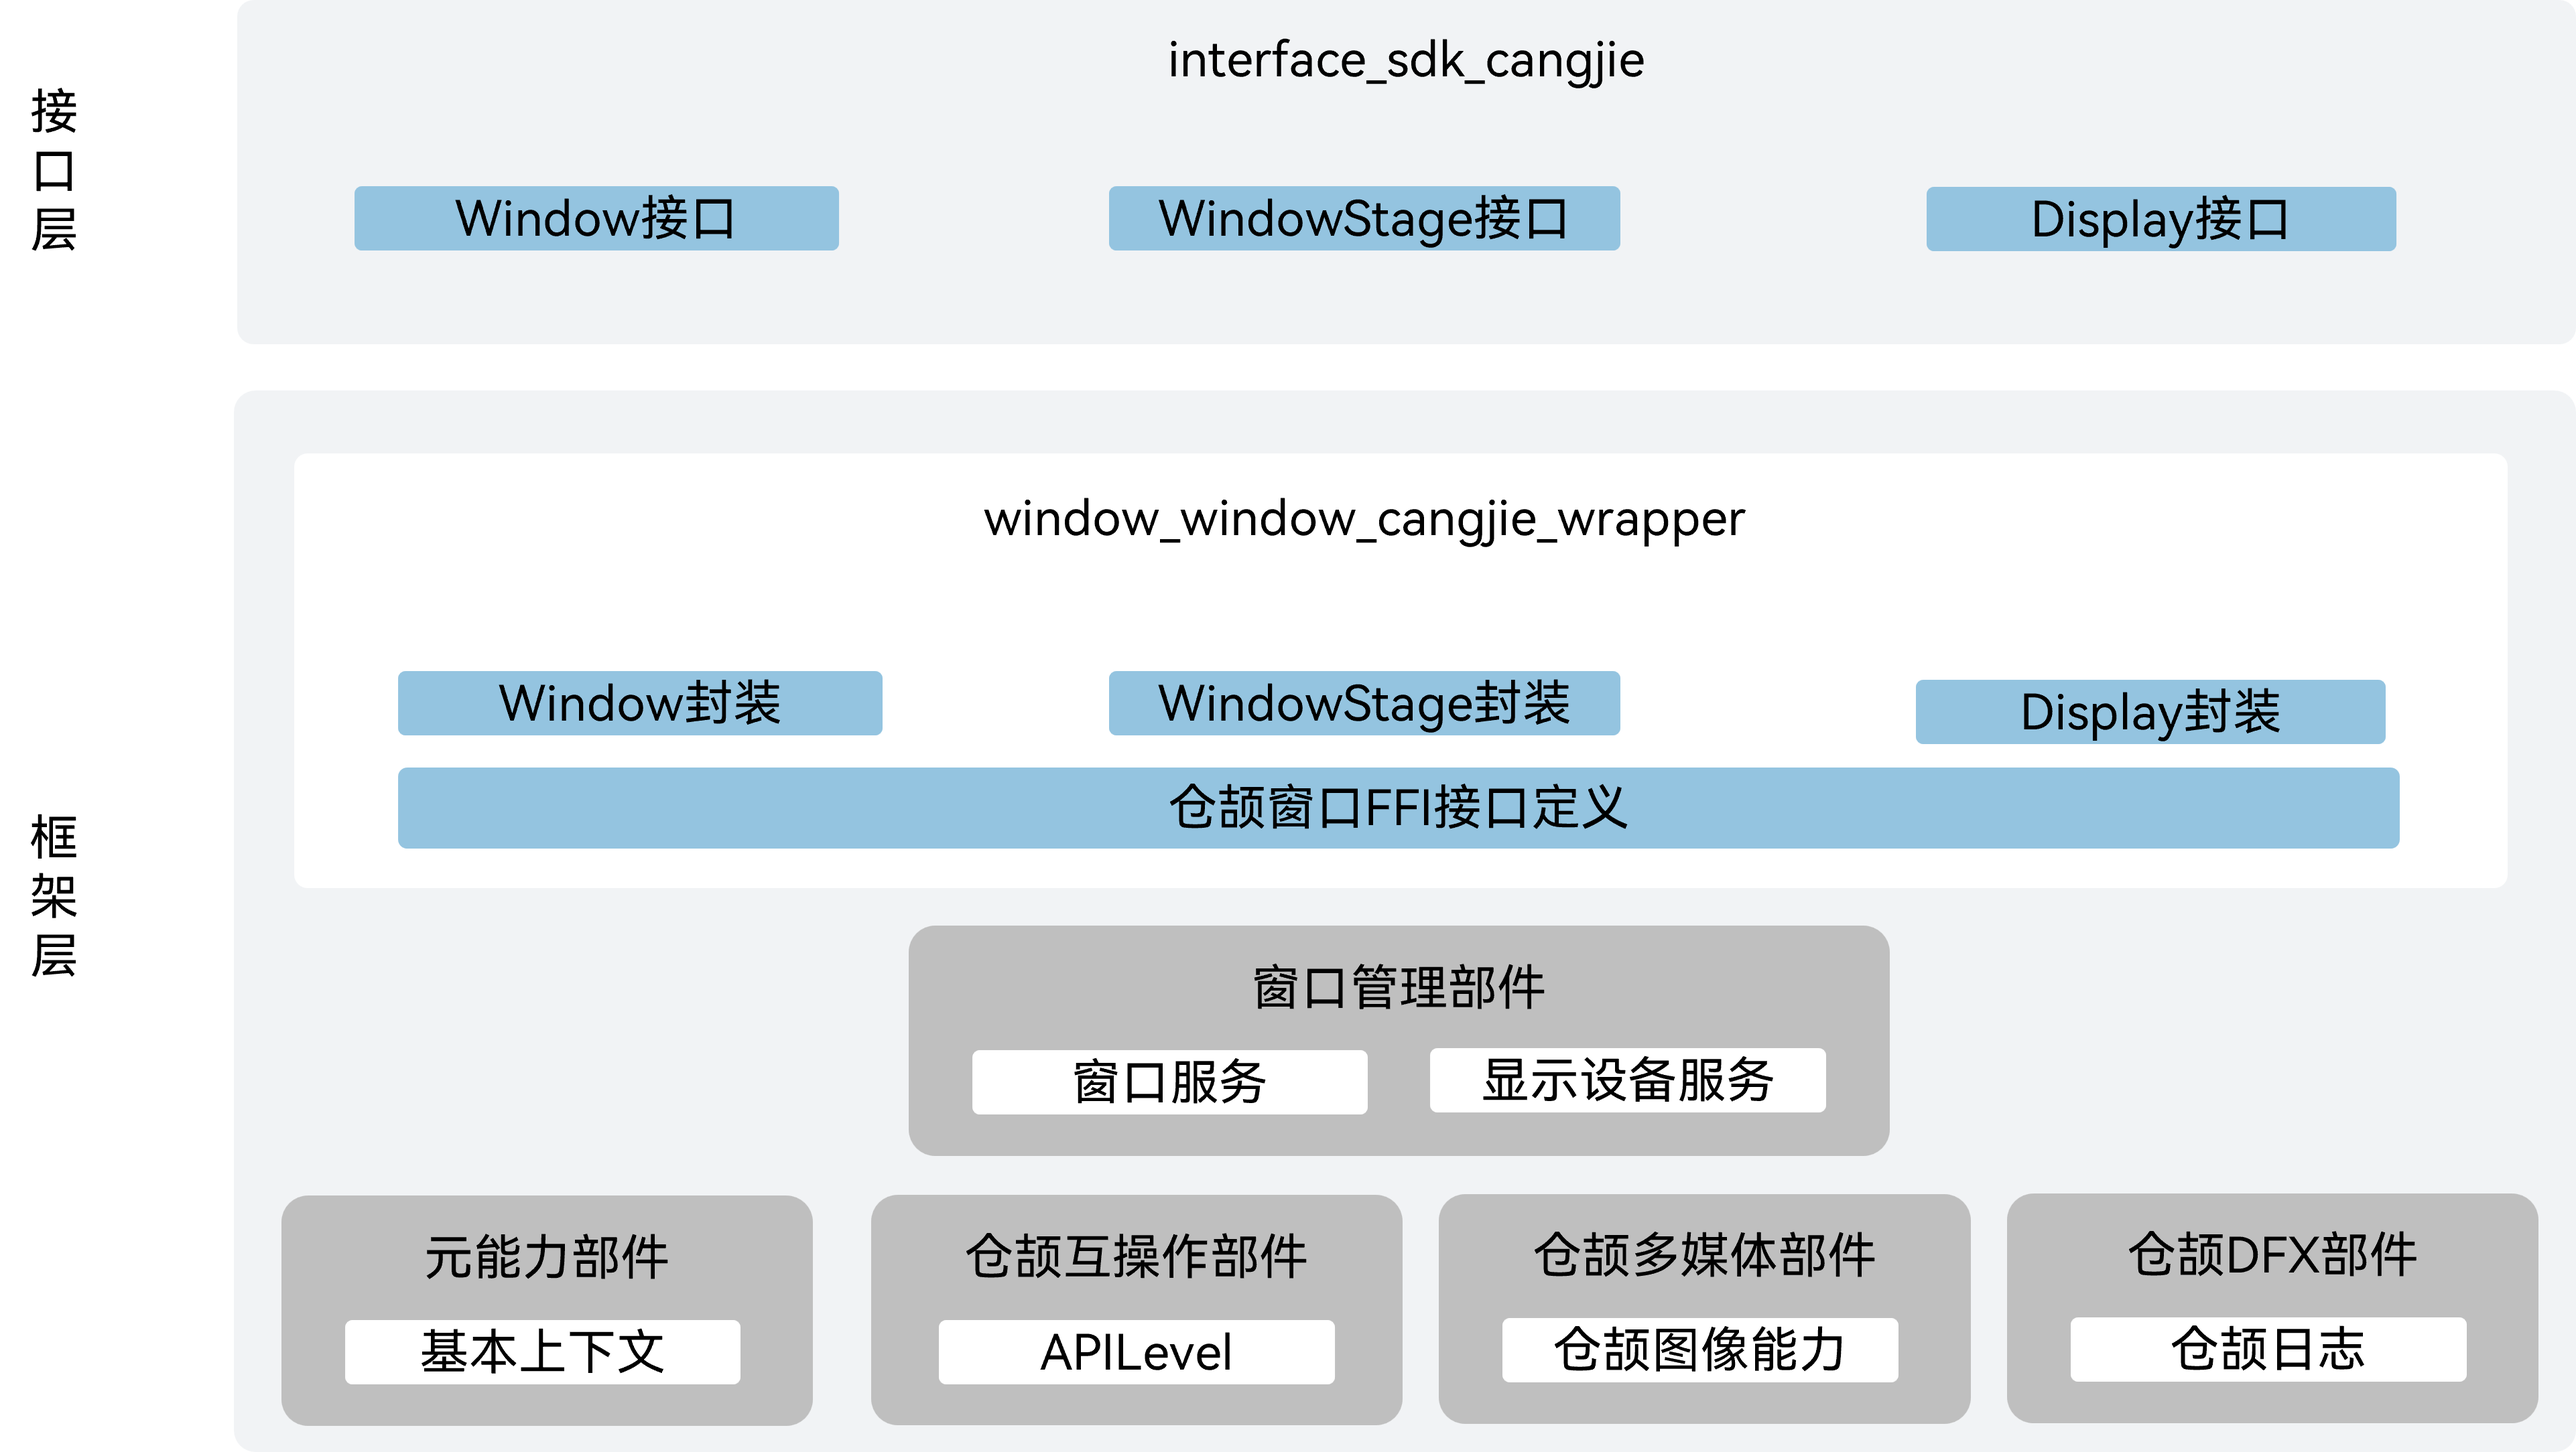
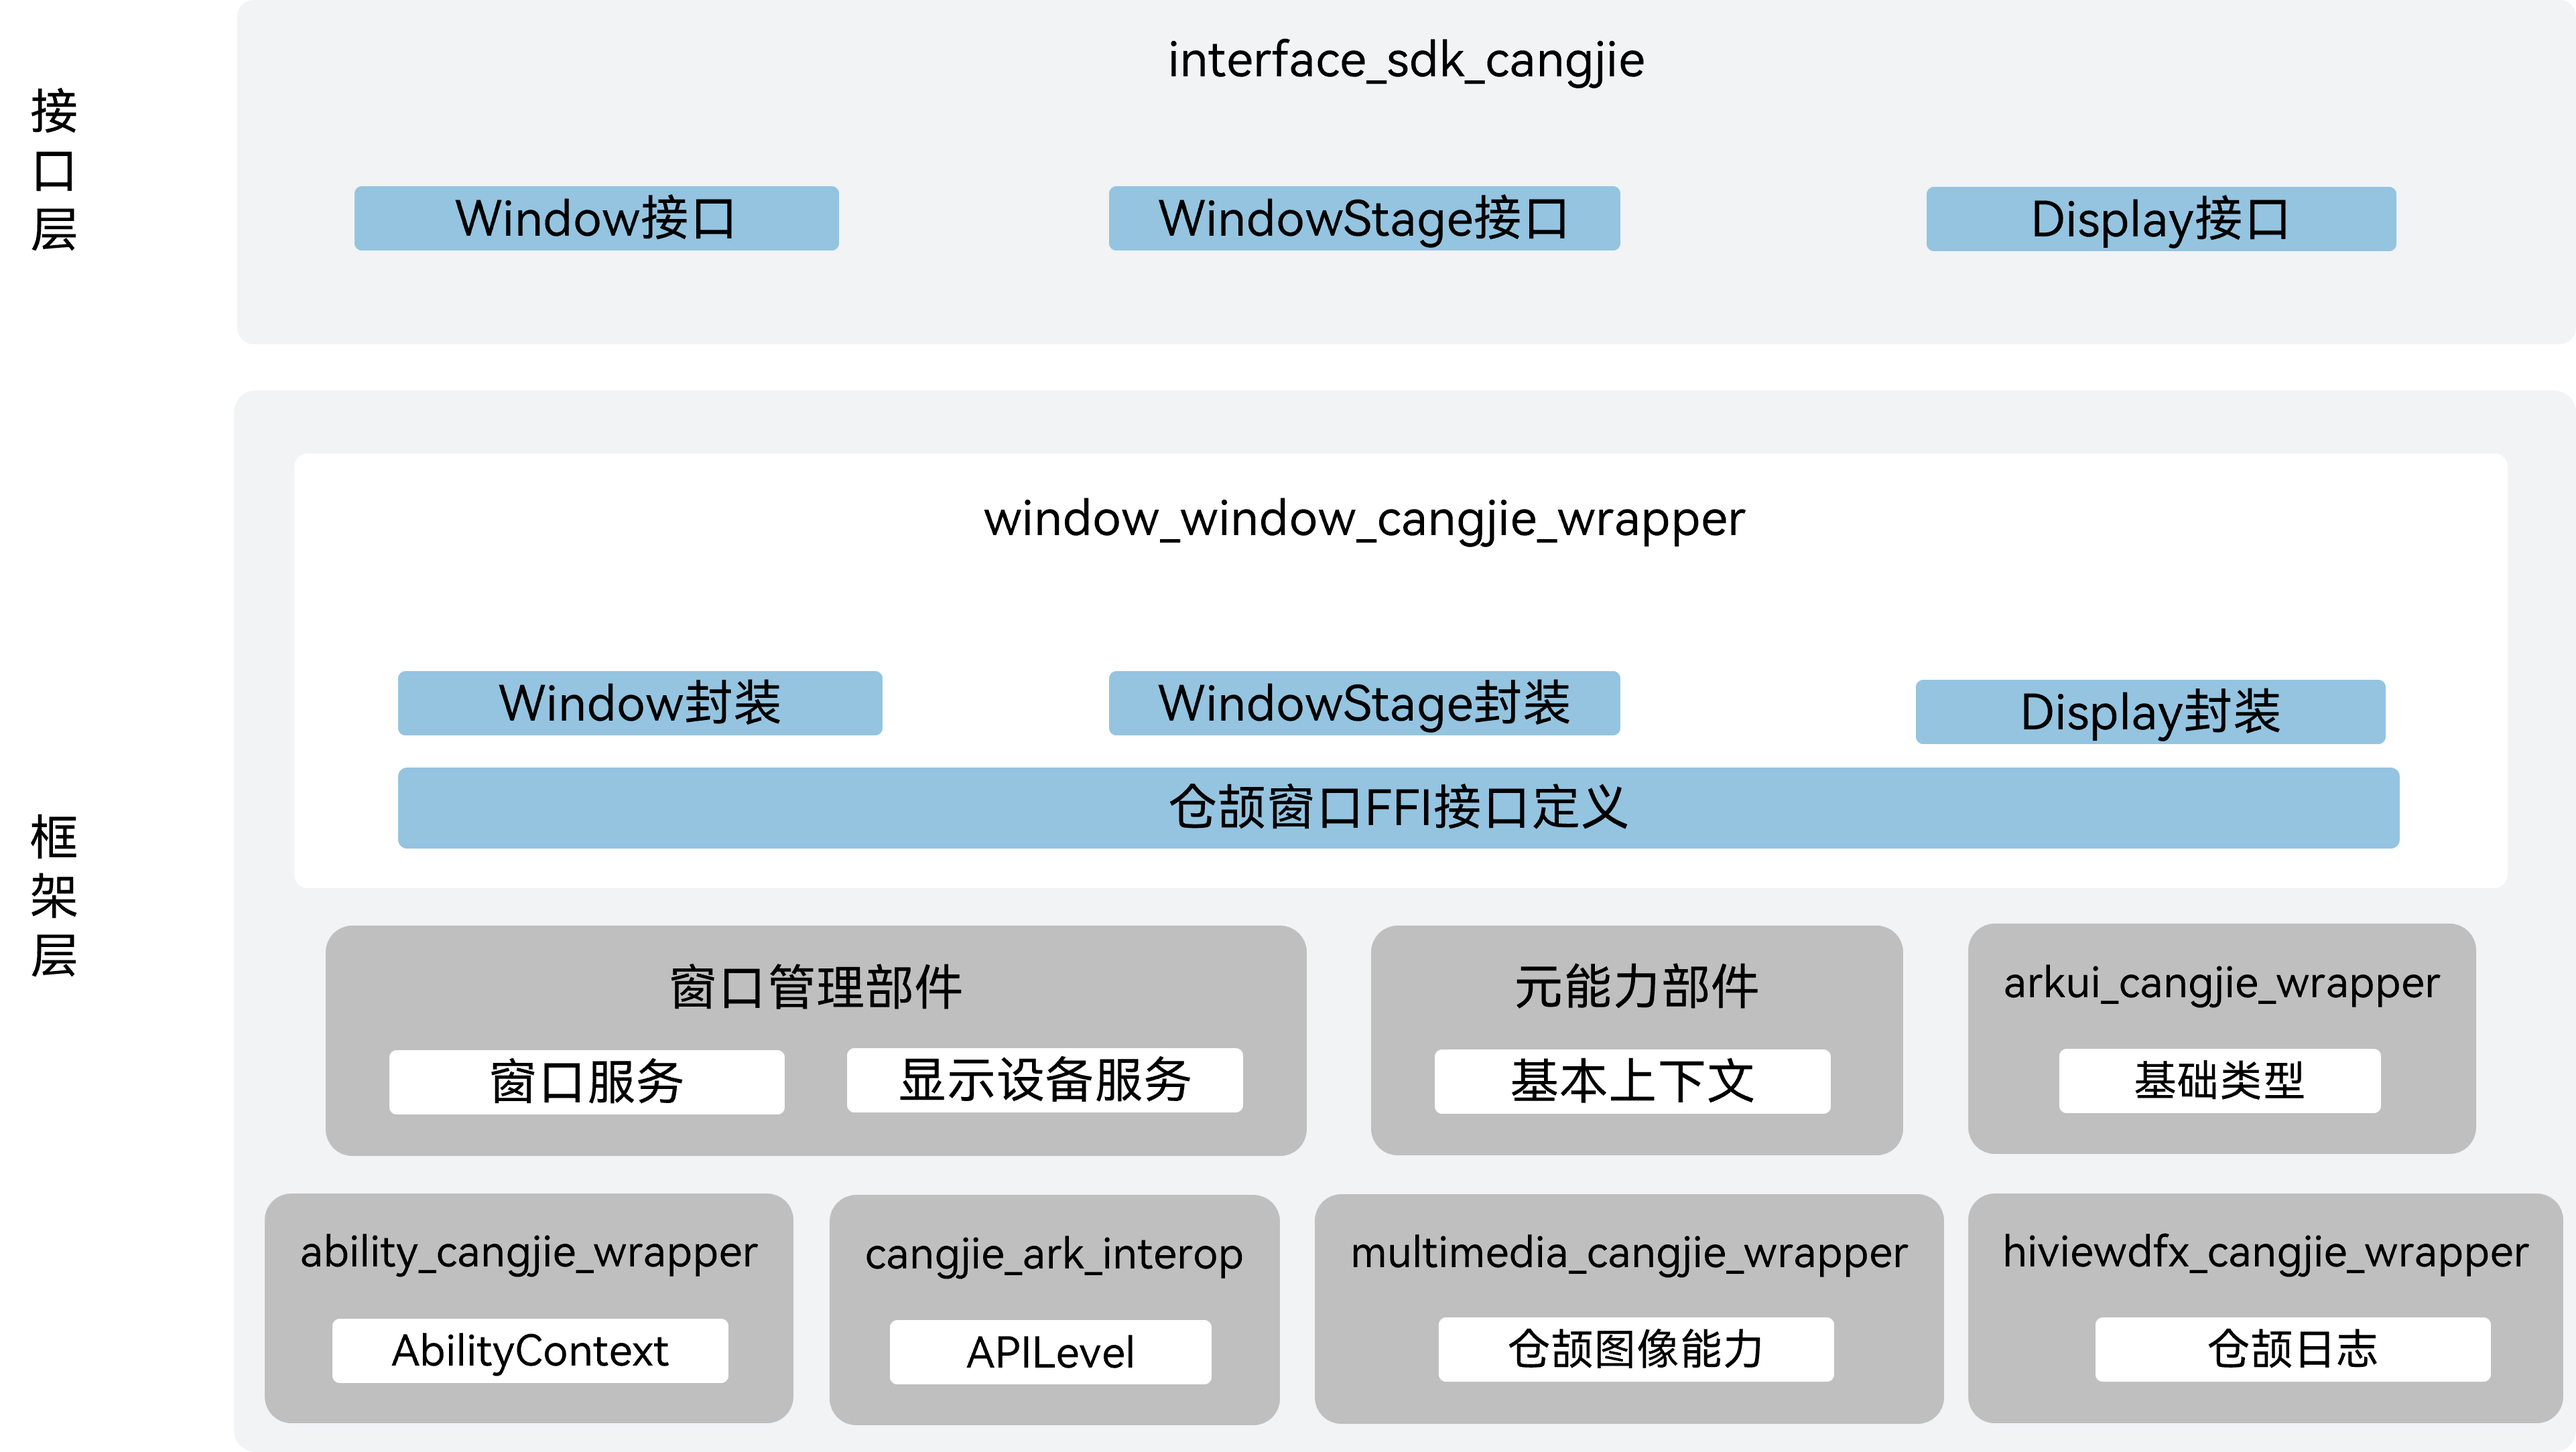
fix review comments

Changed region(s): [[0.0937, 0.6181, 0.999, 0.9889]]

diff --git a/README_zh.md b/README_zh.md
@@ -17,8 +17,20 @@
 
 如架构图所示：
 
-- 窗口服务：提供窗口实例管理能力，提供上层查询接口
-- 显示设备服务：提供显示设备管理服务，提供上层查询接口
+- Window：当前窗口实例，窗口管理器管理的基本单元。
+- WindowStage：窗口管理器。管理各个基本窗口单元。
+- Display：屏幕属性提供管理显示设备的一些基础能力，包括获取默认显示设备的信息，获取所有显示设备的信息以及监听显示设备的插拔行为。
+- 仓颉窗口FFI接口定义：负责定义C语言互操作仓颉接口，用于实现仓颉窗口能力
+
+架构图中依赖部件引入说明：
+
+- 窗口管理部件：仓颉接口封装依赖窗口管理部件提供的窗口服务和显示设备服务
+- 元能力部件：依赖元能力部件提供的BaseContext查询能力
+- arkui_cangjie_wrapper：依赖ArkUI仓颉部件提供的基础类型
+- ability_cangjie_wrapper：依赖Ability仓颉部件提供获取AbilityContext接口
+- cangjie_ark_interop：依赖仓颉互操作部件提供的APILevel能力进行API管理
+- multimedia_cangjie_wrapper：依赖多媒体仓颉部件提供的image接口
+- hiviewdfx_cangjie_wrapper：依赖DFX仓颉部件提供的Hilog接口
 
 ## 目录<a name="section1791423143211"></a>
 ```
@@ -35,9 +47,9 @@ foundation/window/window_cangjie_wrapper/
 窗口仓颉接口，目前提供窗口管理器，显示设备管理等API。
 
 提供的能力范围包括：
-- Window接口：窗口实例，获取应用窗口实例，相关接口参考[Window](https://gitcode.com/openharmony-sig/arkcompiler_cangjie_ark_interop/blob/master/doc/API_Reference/source_zh_cn/arkui-cj/cj-apis-window.md)。
-- WindowStage接口：窗口管理器，管理各个窗口基本单元。
-- Display接口：管理显示设备的能力，获取所有显示设备的信息以及监听显示设备的插拔行为。
+- Window接口：窗口实例，提供获取应用窗口实例的接口，相关接口参考[Window](https://gitcode.com/openharmony-sig/arkcompiler_cangjie_ark_interop/blob/master/doc/API_Reference/source_zh_cn/arkui-cj/cj-apis-window.md)。
+- WindowStage接口：窗口管理器，提供管理各个窗口基本单元的接口。
+- Display接口：管理显示设备的能力，提供获取所有显示设备的信息以及监听显示设备的插拔行为的接口。
 
 与ArkTS相比，暂未提供以下能力：
 - Pipwindow：画中画能力。

diff --git a/README.md b/README.md
@@ -15,6 +15,23 @@ Framework architecture:
 
 ![Cangjie window wrapper](./figures/window_window_cangjie_wrapper_en.png)
 
+As illustrated in the architecture:
+
+- Window: The current window instance, which is the fundamental unit managed by the window manager.
+- WindowStage: The window manager. It manages the various basic window units.
+- Display: Screen properties; provides basic capabilities for managing display devices. This includes obtaining information about the default display device, retrieving information for all display devices, and monitoring the connection and removal of display devices.
+- Cangjie Window FFI Interface: Responsible for defining the C-language interoperation Cangjie interfaces, used to implement Cangjie window capabilities.
+
+Dependency Component Introduction in the Architecture:
+
+- Window Management: The encapsulation of Cangjie interfaces relies on the window services and display device services provided by the Window Management.
+- Ability Runtime: It depends on the BaseContext query capability provided by Ability Runtime.
+- arkui_cangjie_wrapper: Relies on the basic types provided by arkui_cangjie_wrapper.
+- ability_cangjie_wrapper: Relies on the AbilityContext interface provided by ability_cangjie_wrapper.
+- cangjie_ark_interop: Relies on the API Level capability provided by the cangjie_ark_interop for API management.
+- multimedia_cangjie_wrapper: Relies on the Image interface provided by multimedia_cangjie_wrapper.
+- hiviewdfx_cangjie_wrapper: Relies on the Hilog interface provided by hiviewdfx_cangjie_wrapper.
+
 ## Directory Structure<a name="section1791423143211"></a>
 
 ```
